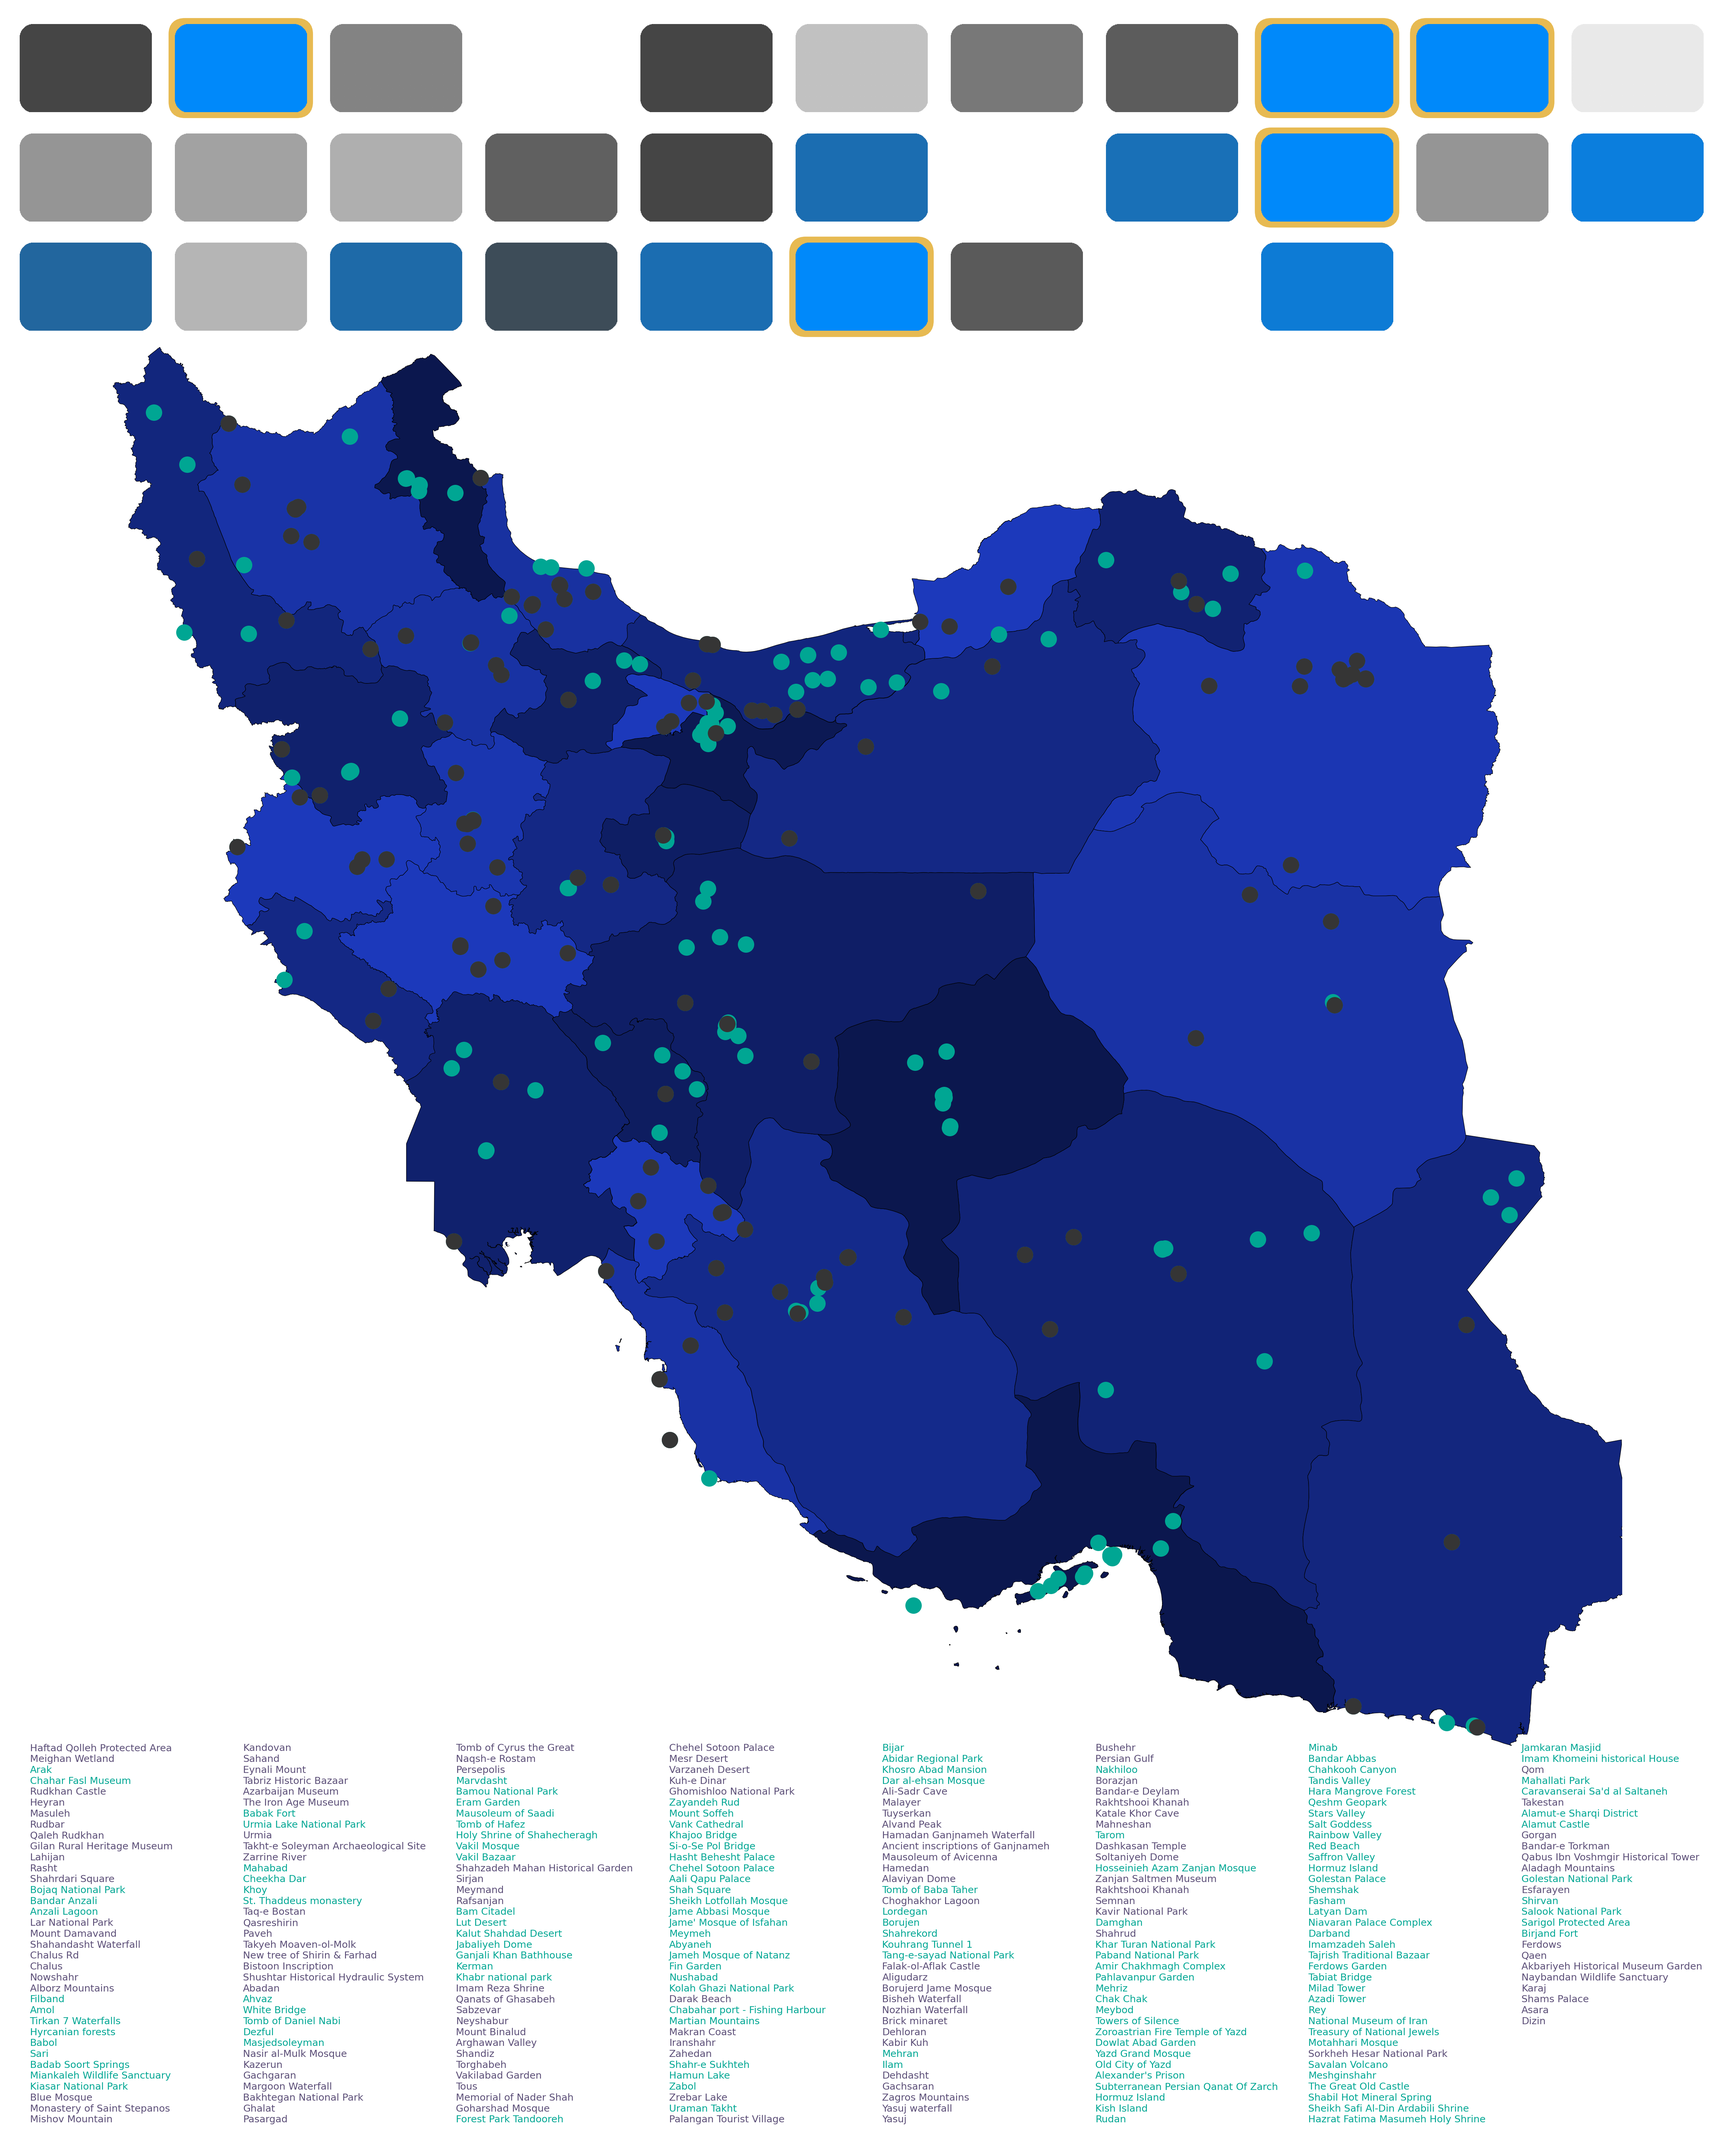
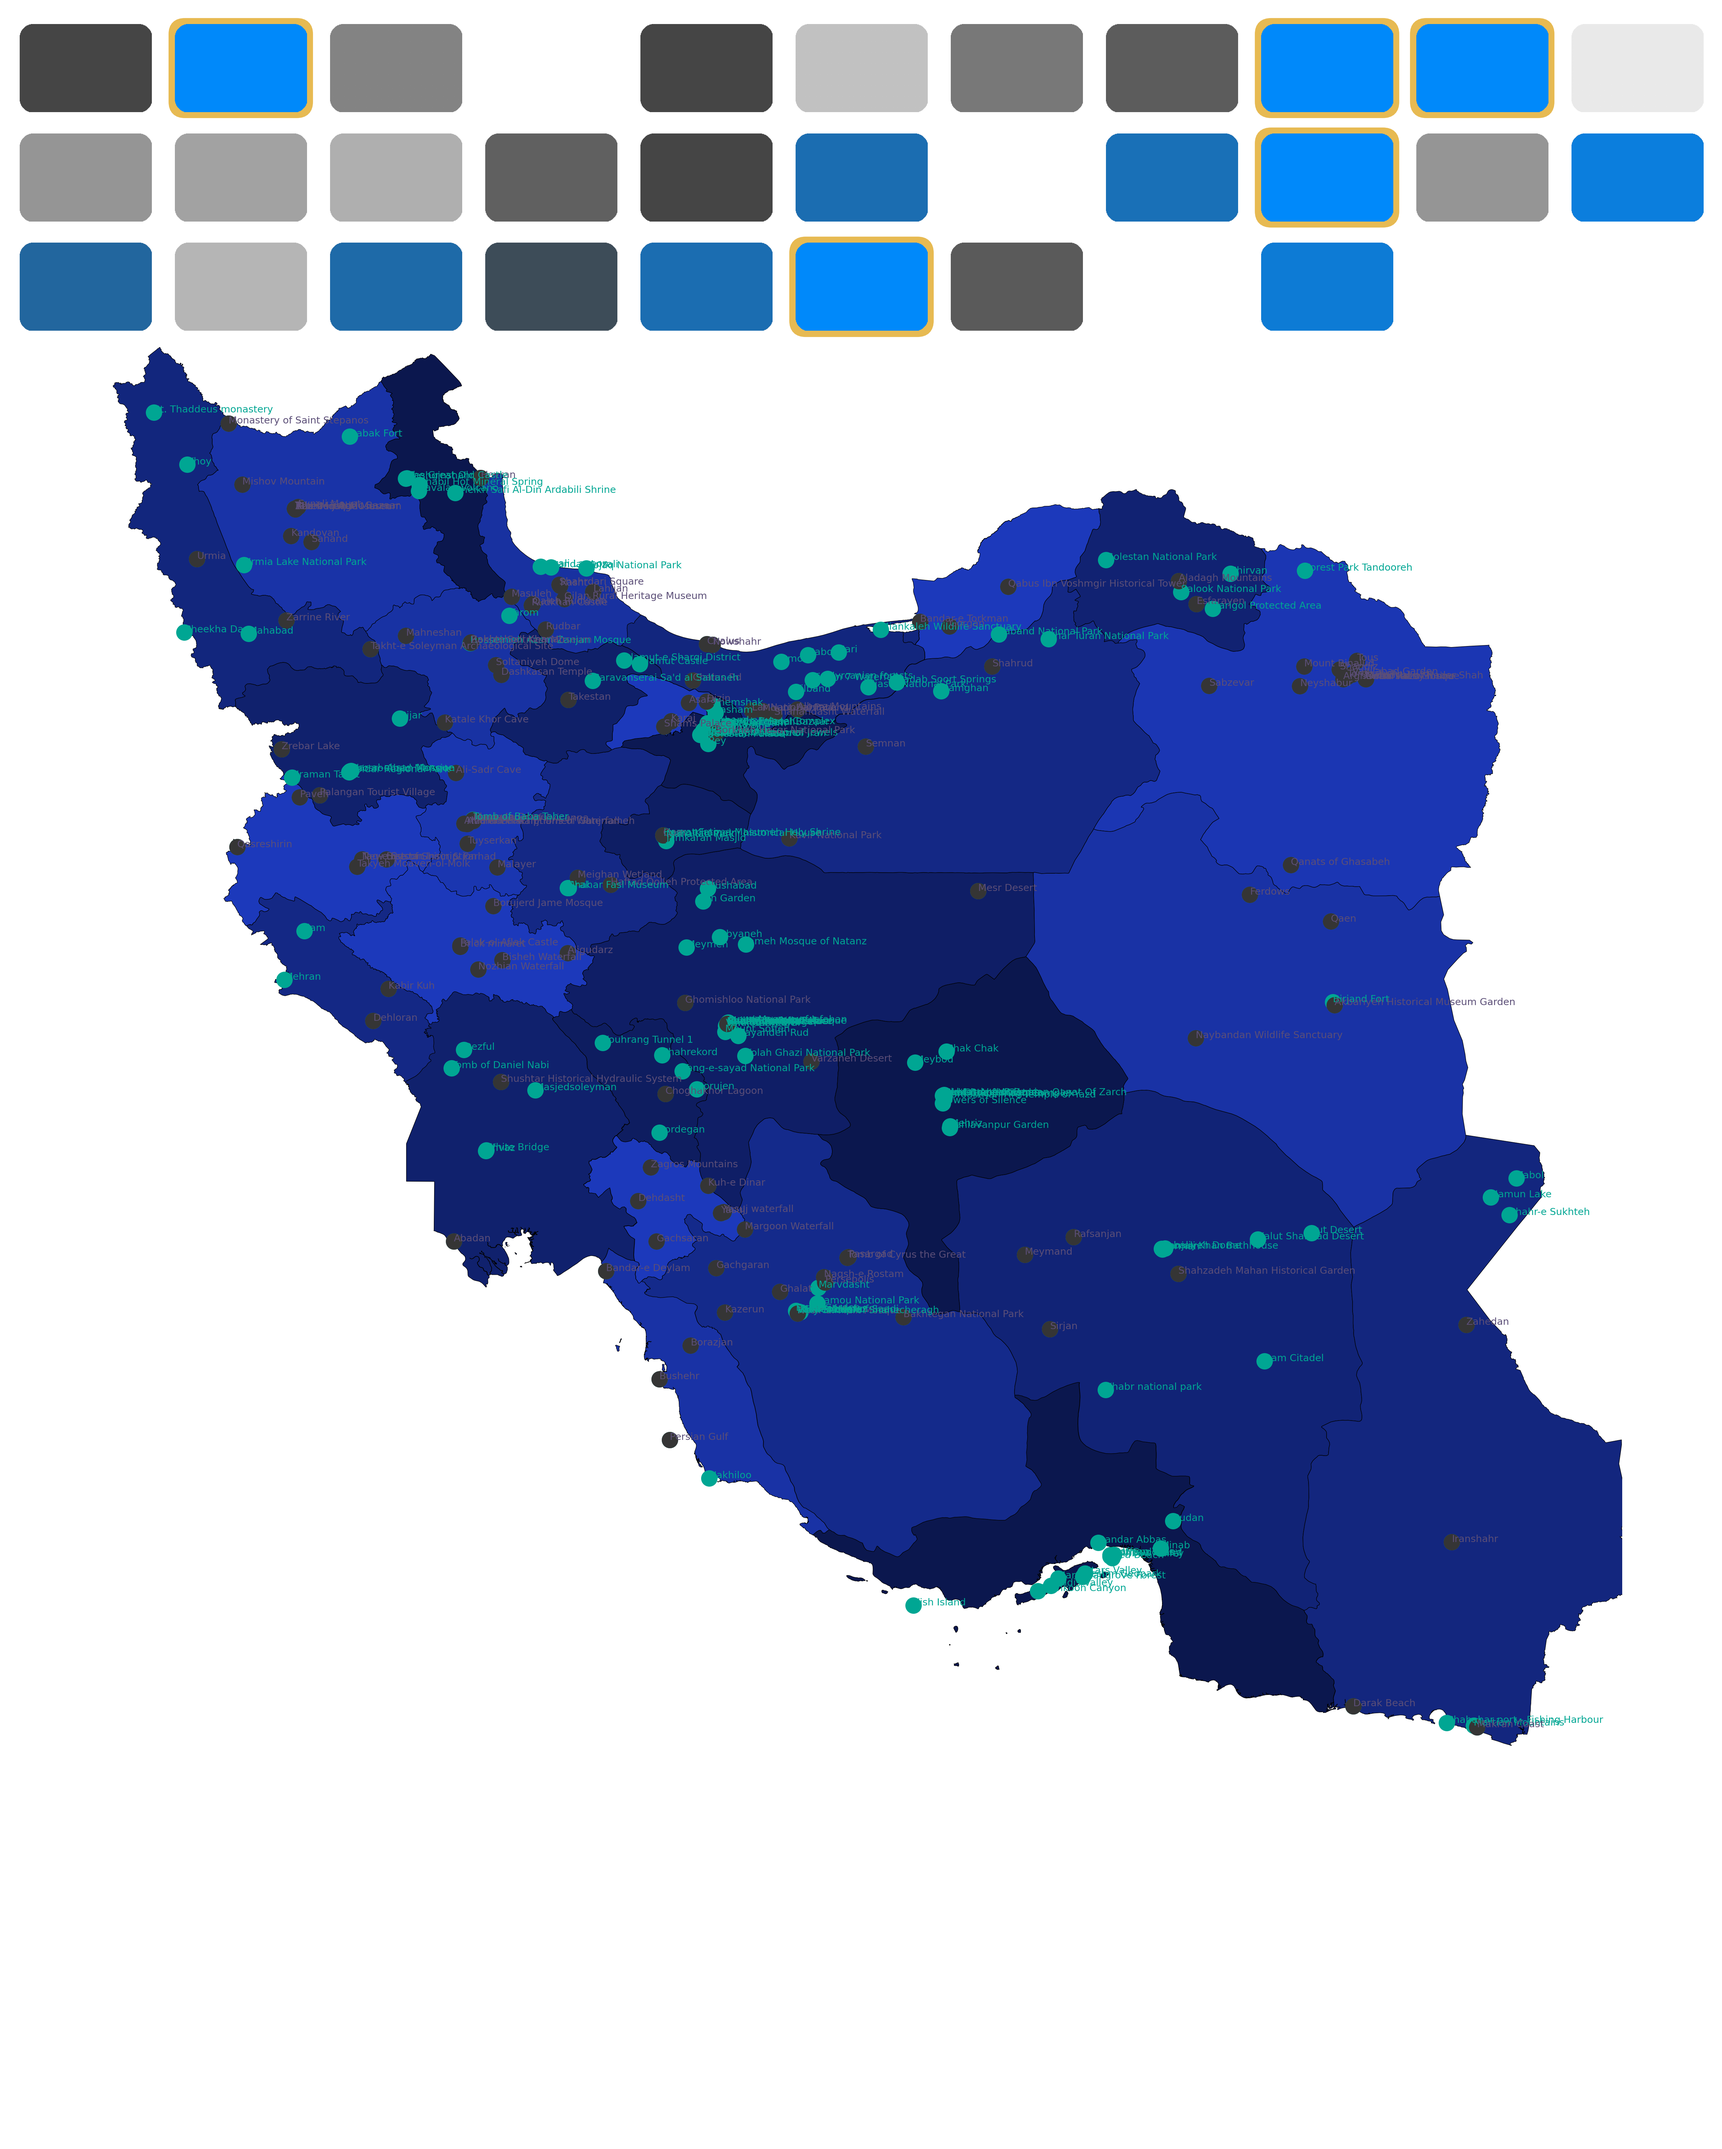
add location names to location on map

diff --git a/plotting/plotting_helpers.py b/plotting/plotting_helpers.py
@@ -13,8 +13,11 @@ def plot_location_labels(ax, locations_df, current_date, labels_config, scale, c
         else:
             label_color = color_unvisited
 
-        pos_x = labels_config["Start Longitude"] + labels_config["Horizontal Spacing"] * column
-        pos_y = labels_config["Start Latitude"] - labels_config["Vertical Spacing"] * row
+        #pos_x = labels_config["Start Longitude"] + labels_config["Horizontal Spacing"] * column
+        #pos_y = labels_config["Start Latitude"] - labels_config["Vertical Spacing"] * row
+
+        pos_x = location['longitude']
+        pos_y = location['latitude']
 
         ax.text(
             pos_x,
